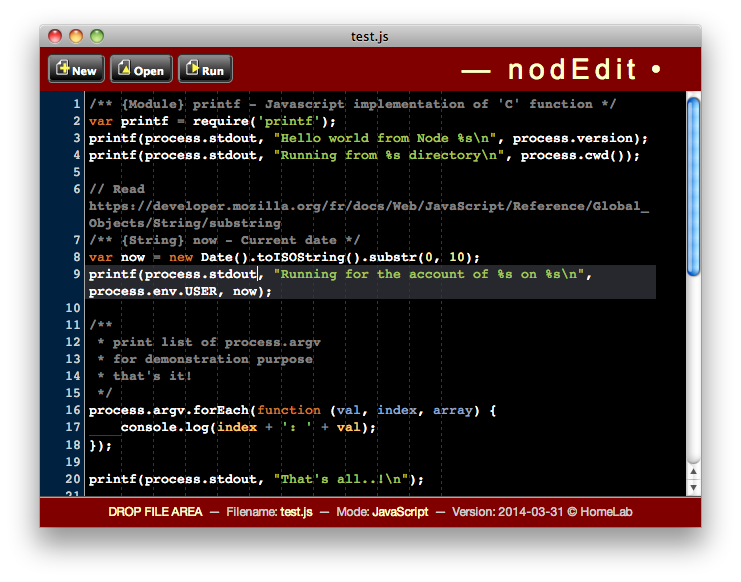
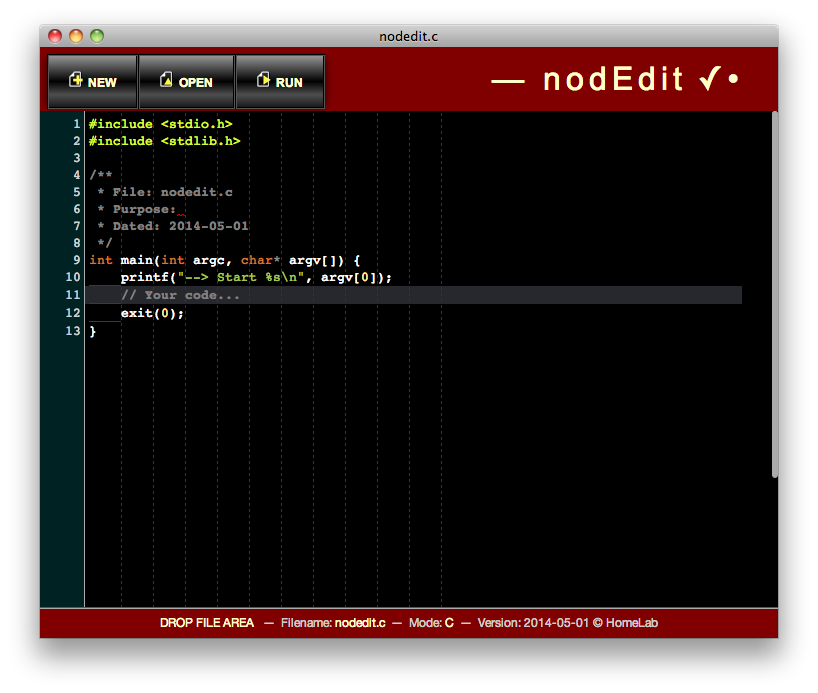
Update screenshot and description

diff --git a/LOGFILE.md b/LOGFILE.md
@@ -1,0 +1,129 @@
+#GitHub new Repository
+2014-04-06
+
+> GitHub Pages are public webpages freely hosted and easily published through 
+our site. You can create and publish them online using the Automatic Page Generator. 
+If you prefer to work locally, you can use the GitHub for Mac and Windows apps, or the command line.
+
+Pages are served over HTTP, not HTTPS. That doesn't make them inherently less secure, but it does mean that you shouldn't use them for sensitive transactions, like sending passwords or credit card numbers.
+
+For more information, check out the GitHub Pages site, or the related documentation here on Help.  
+Refer to https://github.com/legallj/legallj.github.io
+
+##Create a new repository on the command line
+
+	[bash] legallj@mercure : ~
+	$ mkdir legallj.github.io
+
+	[bash] legallj@mercure : ~
+	$ cd /Users/legallj/legallj.github.io 
+
+	[bash] legallj@mercure : ~/legallj.github.io
+	$ git init
+	Dépôt Git vide initialisé dans /Users/legallj/legallj.github.io/.git/
+
+	[bash] legallj@mercure : ~/legallj.github.io
+	$ git add README.md
+
+	[bash] legallj@mercure : ~/legallj.github.io
+	$ git commit -m "first commit"
+	[master (commit racine) b9f2c07] first commit
+	 1 file changed, 39 insertions(+)
+	 create mode 100644 README.md
+
+	[bash] legallj@mercure : ~/legallj.github.io
+	$ git remote add origin https://github.com/legallj/legallj.github.io.git
+
+	[bash] legallj@mercure : ~/legallj.github.io
+	$ git push -u origin master
+	Username for 'https://github.com': legallj
+	Password for 'https://legallj@github.com': 
+	Counting objects: 3, done.
+	Delta compression using up to 4 threads.
+	Compressing objects: 100% (2/2), done.
+	Writing objects: 100% (3/3), 1.56 KiB | 0 bytes/s, done.
+	Total 3 (delta 0), reused 0 (delta 0)
+	To https://github.com/legallj/legallj.github.io.git
+	 * [new branch]      master -> master
+	La branche master est paramétrée pour suivre la branche distante master depuis origin.
+
+##Check Web page
+
+Open [page](https://github.com/legallj/legallj.github.io) --> Ok!
+
+The create a GitHub User Pages [site](https://github.com/legallj/legallj.github.io/generated_pages/new)  
+Page generation hangs --> FAILS! Give up
+
+##Retry using Google Chrome web-browser
+<span style='color:red;'>The problem comes from <strong>Safari</strong> which is 
+no longer supported by GitHub.<br>Use <strong>Chrome</strong> instead and then 
+page template is correctly applied to project.</span>
+
+Follow the procedure at [Create Pages](https://help.github.com/articles/creating-pages-with-the-automatic-generator) 
+and load the `README.md` file to populate the project Web page.
+
+- After your Page is generated, you can get a local copy of its HTML code. 
+If you generated a Project Page, fetch and check out the new `gh-pages` branch.
+- Presently you generated a *User Page*, then the code lives in the `master` branch 
+instead of the *gh-pages* branch, so just check out *master* and then pull.
+
+There are the executed commands:
+
+	[bash] legallj@mercure : ~/legallj.github.io
+	$ git fetch origin
+	remote: Counting objects: 15, done.
+	remote: Compressing objects: 100% (12/12), done.
+	remote: Total 14 (delta 2), reused 0 (delta 0)
+	Unpacking objects: 100% (14/14), done.
+	Depuis https://github.com/legallj/legallj.github.io
+	   b9f2c07..5c9df7b  master     -> origin/master
+
+	[bash] legallj@mercure : ~/legallj.github.io
+	$ git checkout master
+	Déjà sur 'master'
+	Votre branche est en retard sur 'origin/master' de 1 commit, et peut être mise à jour en avance rapide.
+	  (utilisez "git pull" pour mettre à jour votre branche locale)
+
+	[bash] legallj@mercure : ~/legallj.github.io
+	$ git pull origin master
+	Depuis https://github.com/legallj/legallj.github.io
+	 * branch            master     -> FETCH_HEAD
+	Mise à jour b9f2c07..5c9df7b
+	Fast-forward
+	 images/bg_hr.png             | Bin 0 -> 943 bytes
+	 images/blacktocat.png        | Bin 0 -> 1428 bytes
+	 images/icon_download.png     | Bin 0 -> 1162 bytes
+	 images/sprite_download.png   | Bin 0 -> 16799 bytes
+	 index.html                   |  96 ++++++++++++++++++++++
+	 javascripts/main.js          |   1 +
+	 params.json                  |   1 +
+	 stylesheets/pygment_trac.css |  70 ++++++++++++++++
+	 stylesheets/stylesheet.css   | 423 +++++++++++++++++++++++...++++++++
+	 9 files changed, 591 insertions(+)
+	 create mode 100644 images/bg_hr.png
+	 create mode 100644 images/blacktocat.png
+	 create mode 100644 images/icon_download.png
+	 create mode 100644 images/sprite_download.png
+	 create mode 100644 index.html
+	 create mode 100644 javascripts/main.js
+	 create mode 100644 params.json
+	 create mode 100644 stylesheets/pygment_trac.css
+	 create mode 100644 stylesheets/stylesheet.css
+
+Now the Web site is loaded into local repos: `~/legallj.github.io`  
+And can be visible at [GitHub.io](http://legallj.github.io/) public site.  
+Even the *avatar* portrait is now correctly loaded (only use PNG image).
+
+##Update and Sync
+
+Keeping your site up to date is easy so long as you keep both your local and remote code in sync with git. To do so:
+
+Make some change and push to remote:
+
+	$ git add .
+	$ git commit -m '<some message>'
+	$ git push -u origin master
+
+Then keep local repos in sync:
+
+	$ git pull origin master

diff --git a/README.md b/README.md
@@ -7,13 +7,25 @@ v0.2.1 dated 2014-04-05
 
 The goal of this development was to provide *just what you need and no more*, avoiding clobbered graphic user interface (no Eclipse like GUI) and nearly useless exotic functions (like FTP and SVN support). Don't forget the UNIX golden rule as in the early 70's and keep in mind that small is beautiful..!
 
+##Main features
+
+- Drag &amp; drop file to open.
+- Drag &amp; drop folder to create a README.md file in it.
+- Create new file from various snippet types.
+- Provide formatting helper functions specific to file type.
+- List functions and variables in Javascript files with line number (goto line included).
+- Execute Shell, Python, etc. scripts and *Compile &amp; Run* C and Java programs.
+- Edit remote file using host <code>scp</code> (no password management).
+- Preview Markdown with code blocks highlighting.
+- Preview HTML in a separate window and refresh rendering on save.
+- Convert *SCSS* to *CSS* using host <code>sassc</code> tool.
+- Include help page (in a separate window) and video tutorials (in default WebBrowser).
+
 ##Platform
 
 Designed for Mac OSX-10.6+ and compatible with Linux/Ubuntu-12.04+ and Debian (but need some node-webkit tweaks to run under Debian-7)
 
 ##Getting Started
-
-![screenshot](images/screenshot_01.png)
 
 On launch, the so called Front-Page is displayed. From there, *Drag &amp; Drop* a file into the page footer to open it (or press Ctrl-O to use a file browser). Now you can edit the file then use buttons in the page header to Save / Run / Preview its content or result according to the document type: Script / HTML or Markdown.
 
